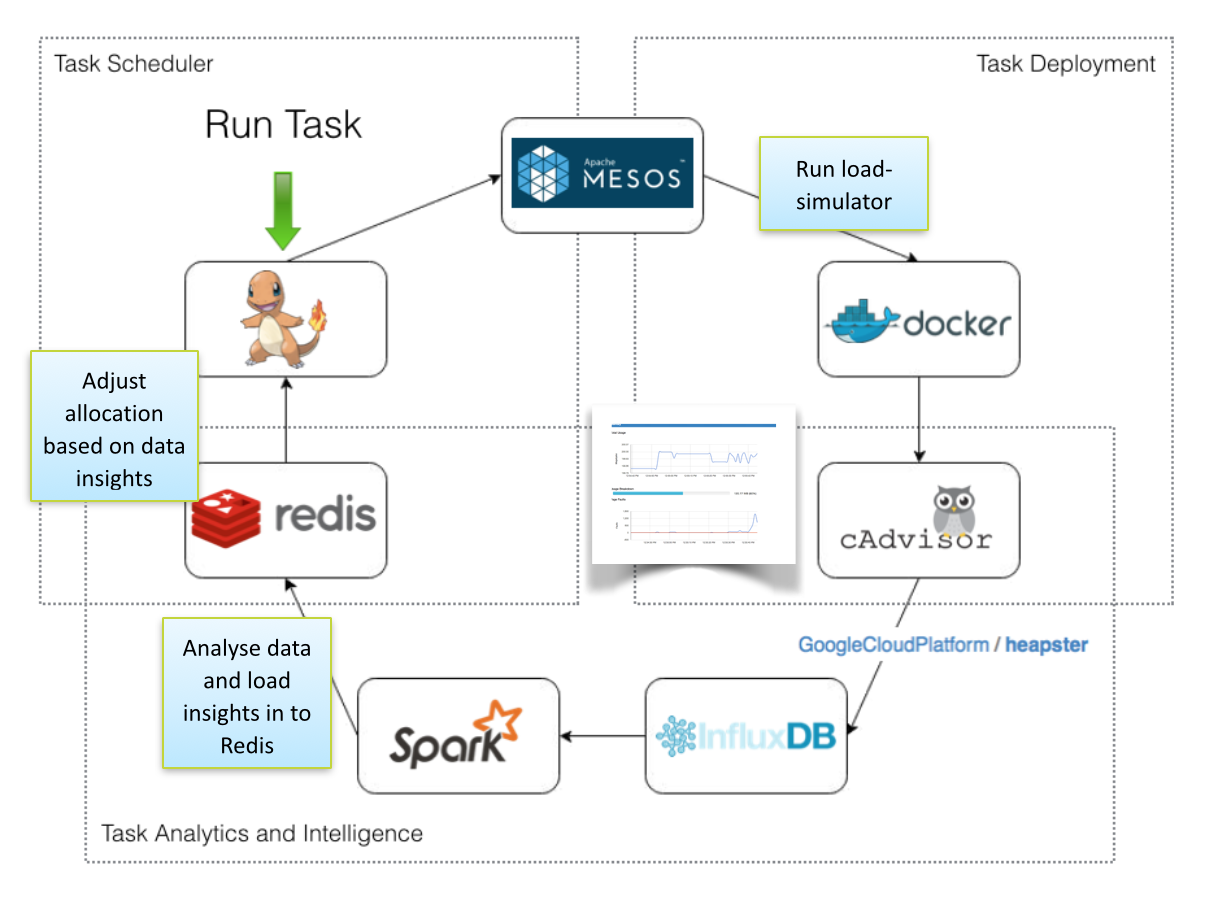
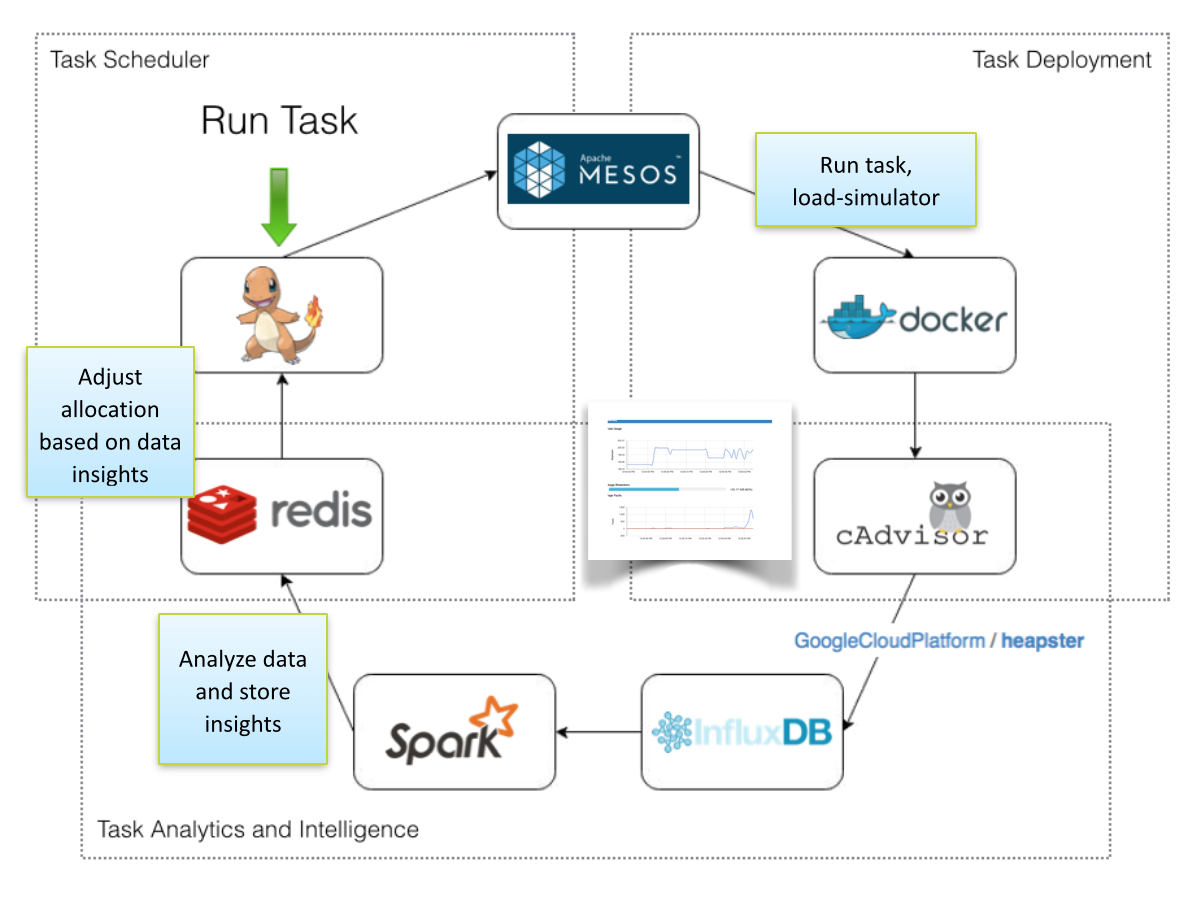
New - Working on detailed documentation

diff --git a/README.md b/README.md
@@ -1,7 +1,13 @@
-Charmander Scheduler Lab
-========================
+Charmander - Scheduler Lab
+==========================
 
 Charmander is a lab environment for measuring and analyzing resource-scheduling algorithms.
 The project got started at the Foundry as an internship project in 2014 by Thedora Chu.
 
 ![image](https://github.com/att-innovate/charmander/blob/master/docs/assets/CharmanderSchedulerLab.png?raw=true)
+
+Charmander at its core provides an easy to use environment to a) schedule and deploy compute-tasks in a multi-node setup
+and b) measure the corresponding cpu, memory, and network-loads.
+
+The collected measurements can afterwards be analyzed using the included Spark analytics workbench and subsequently
+those results can be feed back in to the scheduler.
